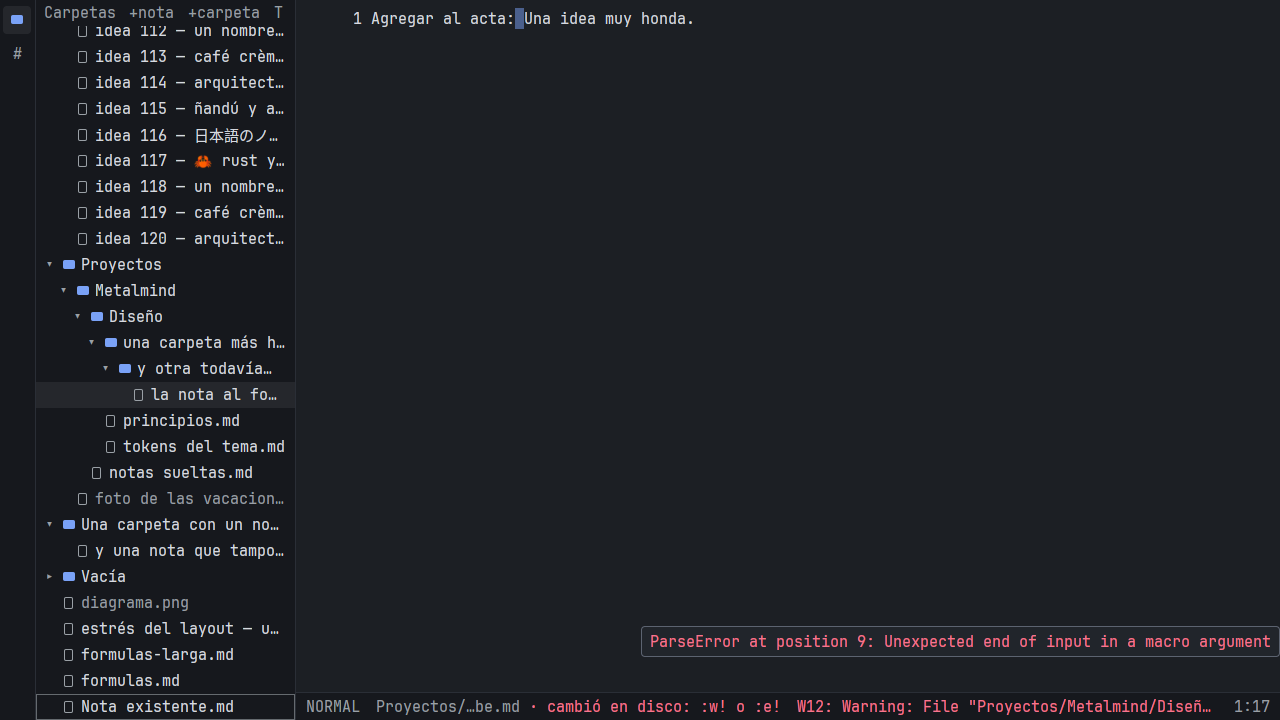
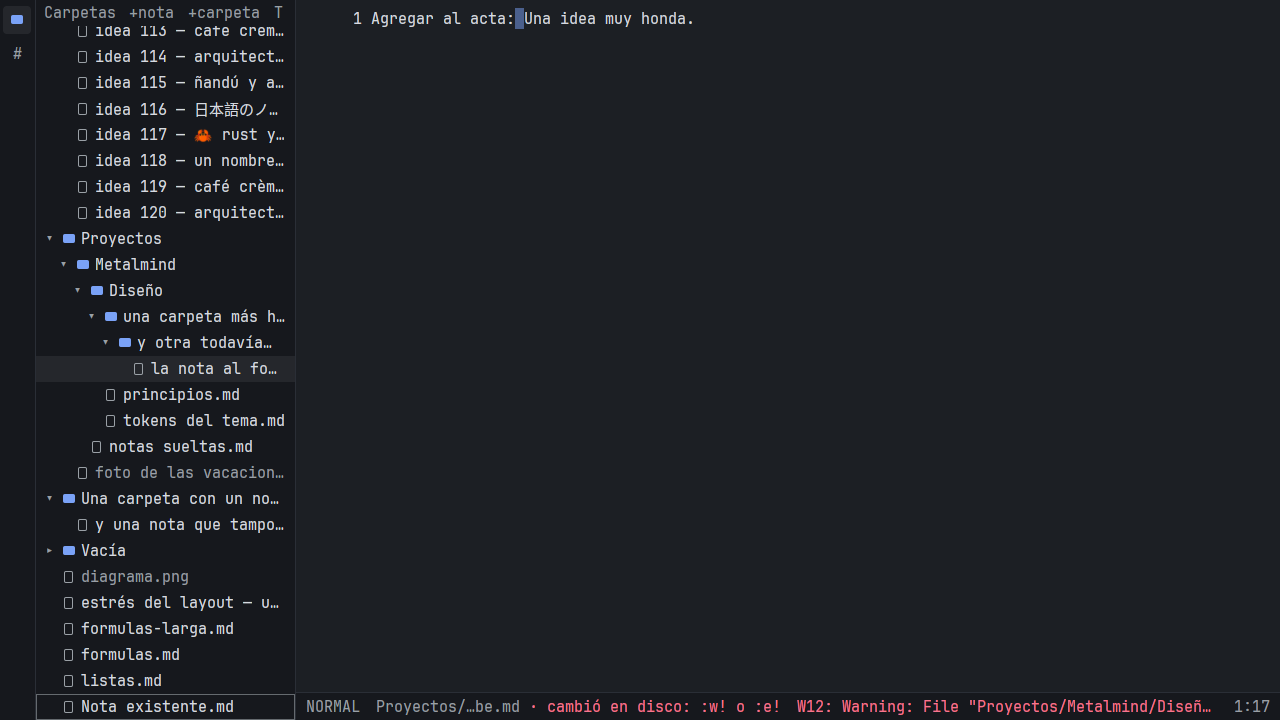
docs: capturas sin el tooltip que sobrevivía al cambio de nota

Changed region(s): [[0.0312, 0.3056, 0.2188, 0.9778], [0.0625, 0.0306, 0.2188, 0.3361], [0.5, 0.8861, 1.0, 0.9167]]

diff --git a/docs/capturas/autoguardado/resumen.md b/docs/capturas/autoguardado/resumen.md
@@ -18,9 +18,11 @@
 | marks-claro-1280 | 468 (`diff-marks-claro-1280.png`) |
 | marks-nota-larga-claro-1280 | 468 (`diff-marks-nota-larga-claro-1280.png`) |
 | marks-borde-derecho-claro-1280 | 5211 (`diff-marks-borde-derecho-claro-1280.png`) |
-| formulas-claro-1280 | 2208 (`diff-formulas-claro-1280.png`) |
-| formulas-bloque-claro-1280 | 2208 (`diff-formulas-bloque-claro-1280.png`) |
-| formulas-larga-claro-1280 | 468 (`diff-formulas-larga-claro-1280.png`) |
+| listas-claro-1280 | 34335 (`diff-listas-claro-1280.png`) |
+| listas-casilla-claro-1280 | 34335 (`diff-listas-casilla-claro-1280.png`) |
+| formulas-claro-1280 | 42158 (`diff-formulas-claro-1280.png`) |
+| formulas-bloque-claro-1280 | 42158 (`diff-formulas-bloque-claro-1280.png`) |
+| formulas-larga-claro-1280 | 39976 (`diff-formulas-larga-claro-1280.png`) |
 | autoguardado-guardado-claro-1280 | no hay captura de antes |
 | autoguardado-sin-guardar-claro-1280 | no hay captura de antes |
 | autoguardado-cambio-en-disco-claro-1280 | no hay captura de antes |
@@ -42,9 +44,11 @@
 | marks-claro-1920 | 468 (`diff-marks-claro-1920.png`) |
 | marks-nota-larga-claro-1920 | 468 (`diff-marks-nota-larga-claro-1920.png`) |
 | marks-borde-derecho-claro-1920 | 6990 (`diff-marks-borde-derecho-claro-1920.png`) |
-| formulas-claro-1920 | 2208 (`diff-formulas-claro-1920.png`) |
-| formulas-bloque-claro-1920 | 2208 (`diff-formulas-bloque-claro-1920.png`) |
-| formulas-larga-claro-1920 | 468 (`diff-formulas-larga-claro-1920.png`) |
+| listas-claro-1920 | 46748 (`diff-listas-claro-1920.png`) |
+| listas-casilla-claro-1920 | 46748 (`diff-listas-casilla-claro-1920.png`) |
+| formulas-claro-1920 | 54571 (`diff-formulas-claro-1920.png`) |
+| formulas-bloque-claro-1920 | 54571 (`diff-formulas-bloque-claro-1920.png`) |
+| formulas-larga-claro-1920 | 52389 (`diff-formulas-larga-claro-1920.png`) |
 | autoguardado-guardado-claro-1920 | no hay captura de antes |
 | autoguardado-sin-guardar-claro-1920 | no hay captura de antes |
 | autoguardado-cambio-en-disco-claro-1920 | no hay captura de antes |
@@ -66,9 +70,11 @@
 | marks-oscuro-1280 | 468 (`diff-marks-oscuro-1280.png`) |
 | marks-nota-larga-oscuro-1280 | 468 (`diff-marks-nota-larga-oscuro-1280.png`) |
 | marks-borde-derecho-oscuro-1280 | 5208 (`diff-marks-borde-derecho-oscuro-1280.png`) |
-| formulas-oscuro-1280 | 2208 (`diff-formulas-oscuro-1280.png`) |
-| formulas-bloque-oscuro-1280 | 2208 (`diff-formulas-bloque-oscuro-1280.png`) |
-| formulas-larga-oscuro-1280 | 468 (`diff-formulas-larga-oscuro-1280.png`) |
+| listas-oscuro-1280 | 34338 (`diff-listas-oscuro-1280.png`) |
+| listas-casilla-oscuro-1280 | 34338 (`diff-listas-casilla-oscuro-1280.png`) |
+| formulas-oscuro-1280 | 42162 (`diff-formulas-oscuro-1280.png`) |
+| formulas-bloque-oscuro-1280 | 42162 (`diff-formulas-bloque-oscuro-1280.png`) |
+| formulas-larga-oscuro-1280 | 39980 (`diff-formulas-larga-oscuro-1280.png`) |
 | autoguardado-guardado-oscuro-1280 | no hay captura de antes |
 | autoguardado-sin-guardar-oscuro-1280 | no hay captura de antes |
 | autoguardado-cambio-en-disco-oscuro-1280 | no hay captura de antes |
@@ -90,9 +96,11 @@
 | marks-oscuro-1920 | 468 (`diff-marks-oscuro-1920.png`) |
 | marks-nota-larga-oscuro-1920 | 468 (`diff-marks-nota-larga-oscuro-1920.png`) |
 | marks-borde-derecho-oscuro-1920 | 6989 (`diff-marks-borde-derecho-oscuro-1920.png`) |
-| formulas-oscuro-1920 | 2208 (`diff-formulas-oscuro-1920.png`) |
-| formulas-bloque-oscuro-1920 | 2208 (`diff-formulas-bloque-oscuro-1920.png`) |
-| formulas-larga-oscuro-1920 | 468 (`diff-formulas-larga-oscuro-1920.png`) |
+| listas-oscuro-1920 | 46757 (`diff-listas-oscuro-1920.png`) |
+| listas-casilla-oscuro-1920 | 46757 (`diff-listas-casilla-oscuro-1920.png`) |
+| formulas-oscuro-1920 | 54581 (`diff-formulas-oscuro-1920.png`) |
+| formulas-bloque-oscuro-1920 | 54581 (`diff-formulas-bloque-oscuro-1920.png`) |
+| formulas-larga-oscuro-1920 | 52399 (`diff-formulas-larga-oscuro-1920.png`) |
 | autoguardado-guardado-oscuro-1920 | no hay captura de antes |
 | autoguardado-sin-guardar-oscuro-1920 | no hay captura de antes |
 | autoguardado-cambio-en-disco-oscuro-1920 | no hay captura de antes |
